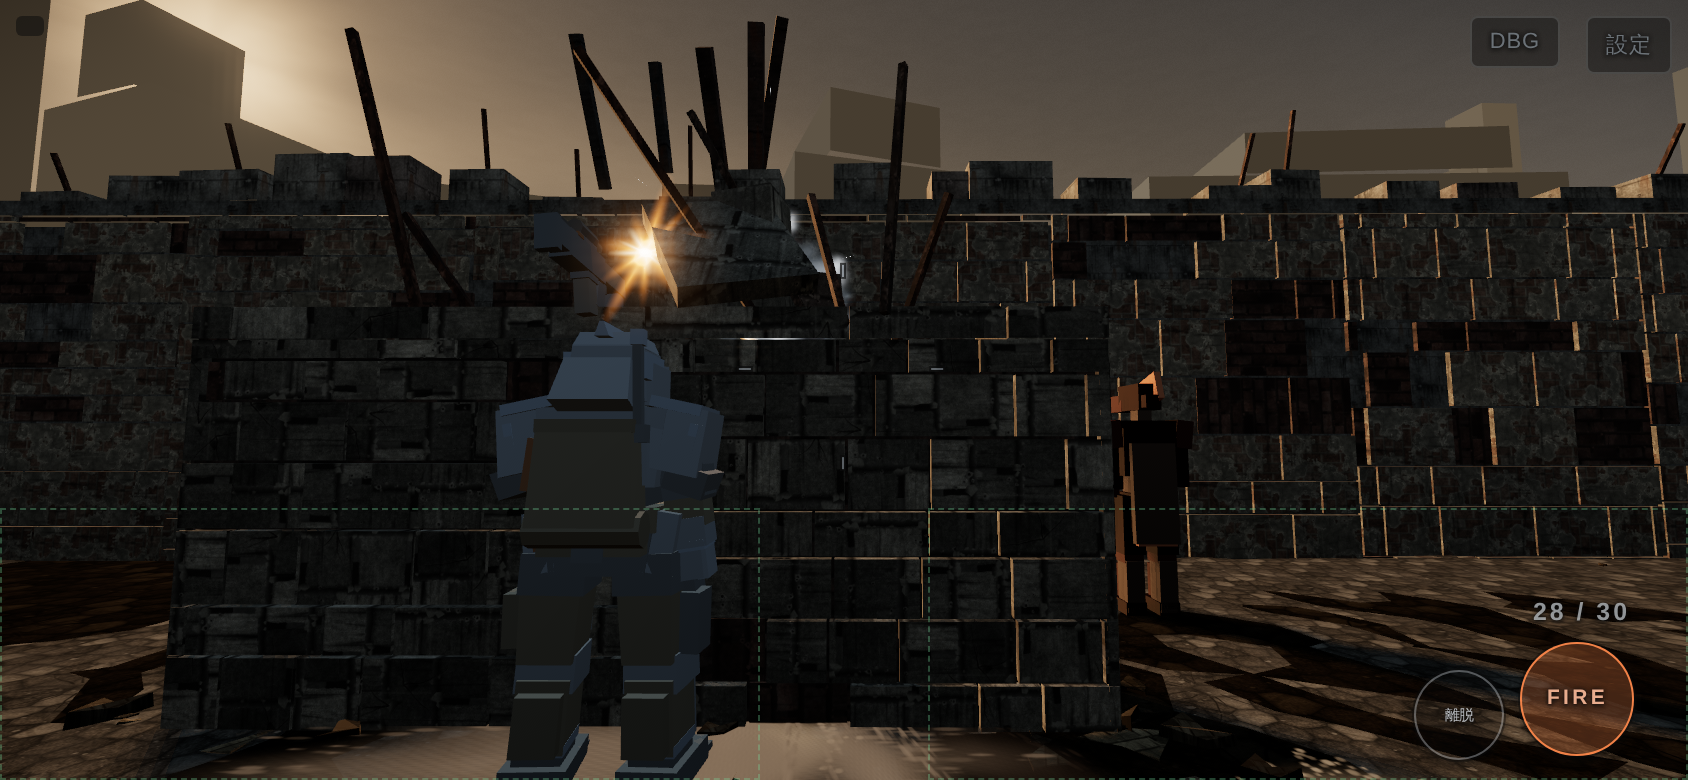
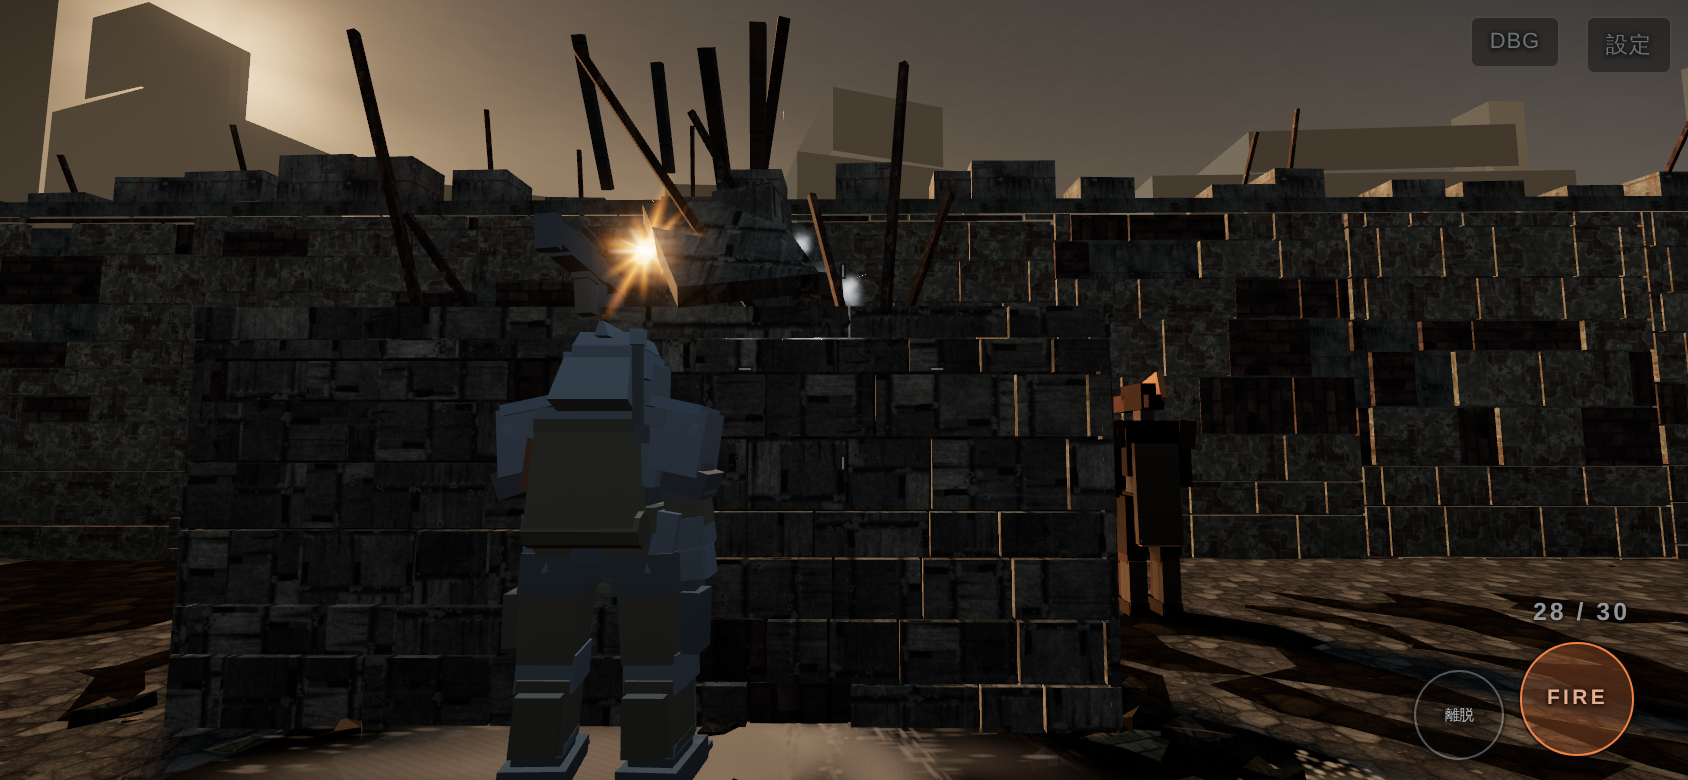
デバッグ表示を既定OFFにした際の漏れを修正。リグレッション86/86
SET.debug を既定 false にしたが、§6の検証用の緑破線（#zoneL/#zoneR）と
デバッグパネル（#dbg）はCSSの既定が表示のままで、UI.init が初期状態を
DOMへ反映していなかった。結果、デバッグを切ったつもりでも
プレイヤーの画面に緑の破線が残っていた。

UI.init で初期状態を反映するようにし、実ゲームで
debug=false / zoneL=none / zoneR=none / dbg=none を実測確認。

検証：全12モジュール搭載でリグレッション86項目すべて通過、JSエラーなし。
描画 draw=49 / tri=85,188（§12上限 150 / 250,000）。

■ この批評ラウンドで直した累計10件（すべてエージェントの実測による指摘）
検証装置の欠陥4件：
  sky の予算が到達不能条件だった / renderer.info が最後のパスしか数えていなかった /
  debris の高さ検査がインスタンス行列を無視していた /
  禁止語チェッカーがカタカナを一つも検出しなかった
ゲーム側の欠陥6件：
  デバッグ表示が既定ON / 敵マテリアルの二重書き込み /
  命中と非命中でカメラが無区別 / ヒットストップが1フレームで知覚不能 /
  発砲と乗り越えのアニメーションがゼロ / 陣営色の明度が環境と同一

■ 未解決（正直な記録）
§3の判定は REDO のまま（シルエット読解性1点・アニメーションの重み1点）。
批評3体が未着手。実機のfpsと発熱、音の知覚、手触りの8項目はいずれも未検証。
敵AI・被弾・リロードのタイミング入力はラウンド2として未実装。

Claude-Session: https://claude.ai/code/session_01WWzq8eyFFA5BGV3pj9UJTc

diff --git a/ashline.html b/ashline.html
@@ -10333,6 +10333,10 @@ var UI = {
     }, { passive: false });
     this.els.assistBtn.textContent = 'エイムアシスト：' + ASSIST_LEVELS[SET.assist].name;
     this.els.autoBtn.textContent = 'オートファイア：' + (SET.autoFire ? 'ON' : 'OFF');
+    // デバッグ表示の初期状態をDOMに反映する。CSSは既定で表示なので、
+    // ここで揃えないと debug=false でも §6 の検証用の緑破線が画面に残る。
+    this.els.dbg.style.display = SET.debug ? 'block' : 'none';
+    this.els.zoneL.style.display = this.els.zoneR.style.display = SET.debug ? 'block' : 'none';
     this.resize();
   },
   resize: function () {

diff --git a/ashline/artifact.html b/ashline/artifact.html
@@ -10332,6 +10332,10 @@ var UI = {
     }, { passive: false });
     this.els.assistBtn.textContent = 'エイムアシスト：' + ASSIST_LEVELS[SET.assist].name;
     this.els.autoBtn.textContent = 'オートファイア：' + (SET.autoFire ? 'ON' : 'OFF');
+    // デバッグ表示の初期状態をDOMに反映する。CSSは既定で表示なので、
+    // ここで揃えないと debug=false でも §6 の検証用の緑破線が画面に残る。
+    this.els.dbg.style.display = SET.debug ? 'block' : 'none';
+    this.els.zoneL.style.display = this.els.zoneR.style.display = SET.debug ? 'block' : 'none';
     this.resize();
   },
   resize: function () {

diff --git a/ashline/game.js b/ashline/game.js
@@ -1532,6 +1532,10 @@ var UI = {
     }, { passive: false });
     this.els.assistBtn.textContent = 'エイムアシスト：' + ASSIST_LEVELS[SET.assist].name;
     this.els.autoBtn.textContent = 'オートファイア：' + (SET.autoFire ? 'ON' : 'OFF');
+    // デバッグ表示の初期状態をDOMに反映する。CSSは既定で表示なので、
+    // ここで揃えないと debug=false でも §6 の検証用の緑破線が画面に残る。
+    this.els.dbg.style.display = SET.debug ? 'block' : 'none';
+    this.els.zoneL.style.display = this.els.zoneR.style.display = SET.debug ? 'block' : 'none';
     this.resize();
   },
   resize: function () {
